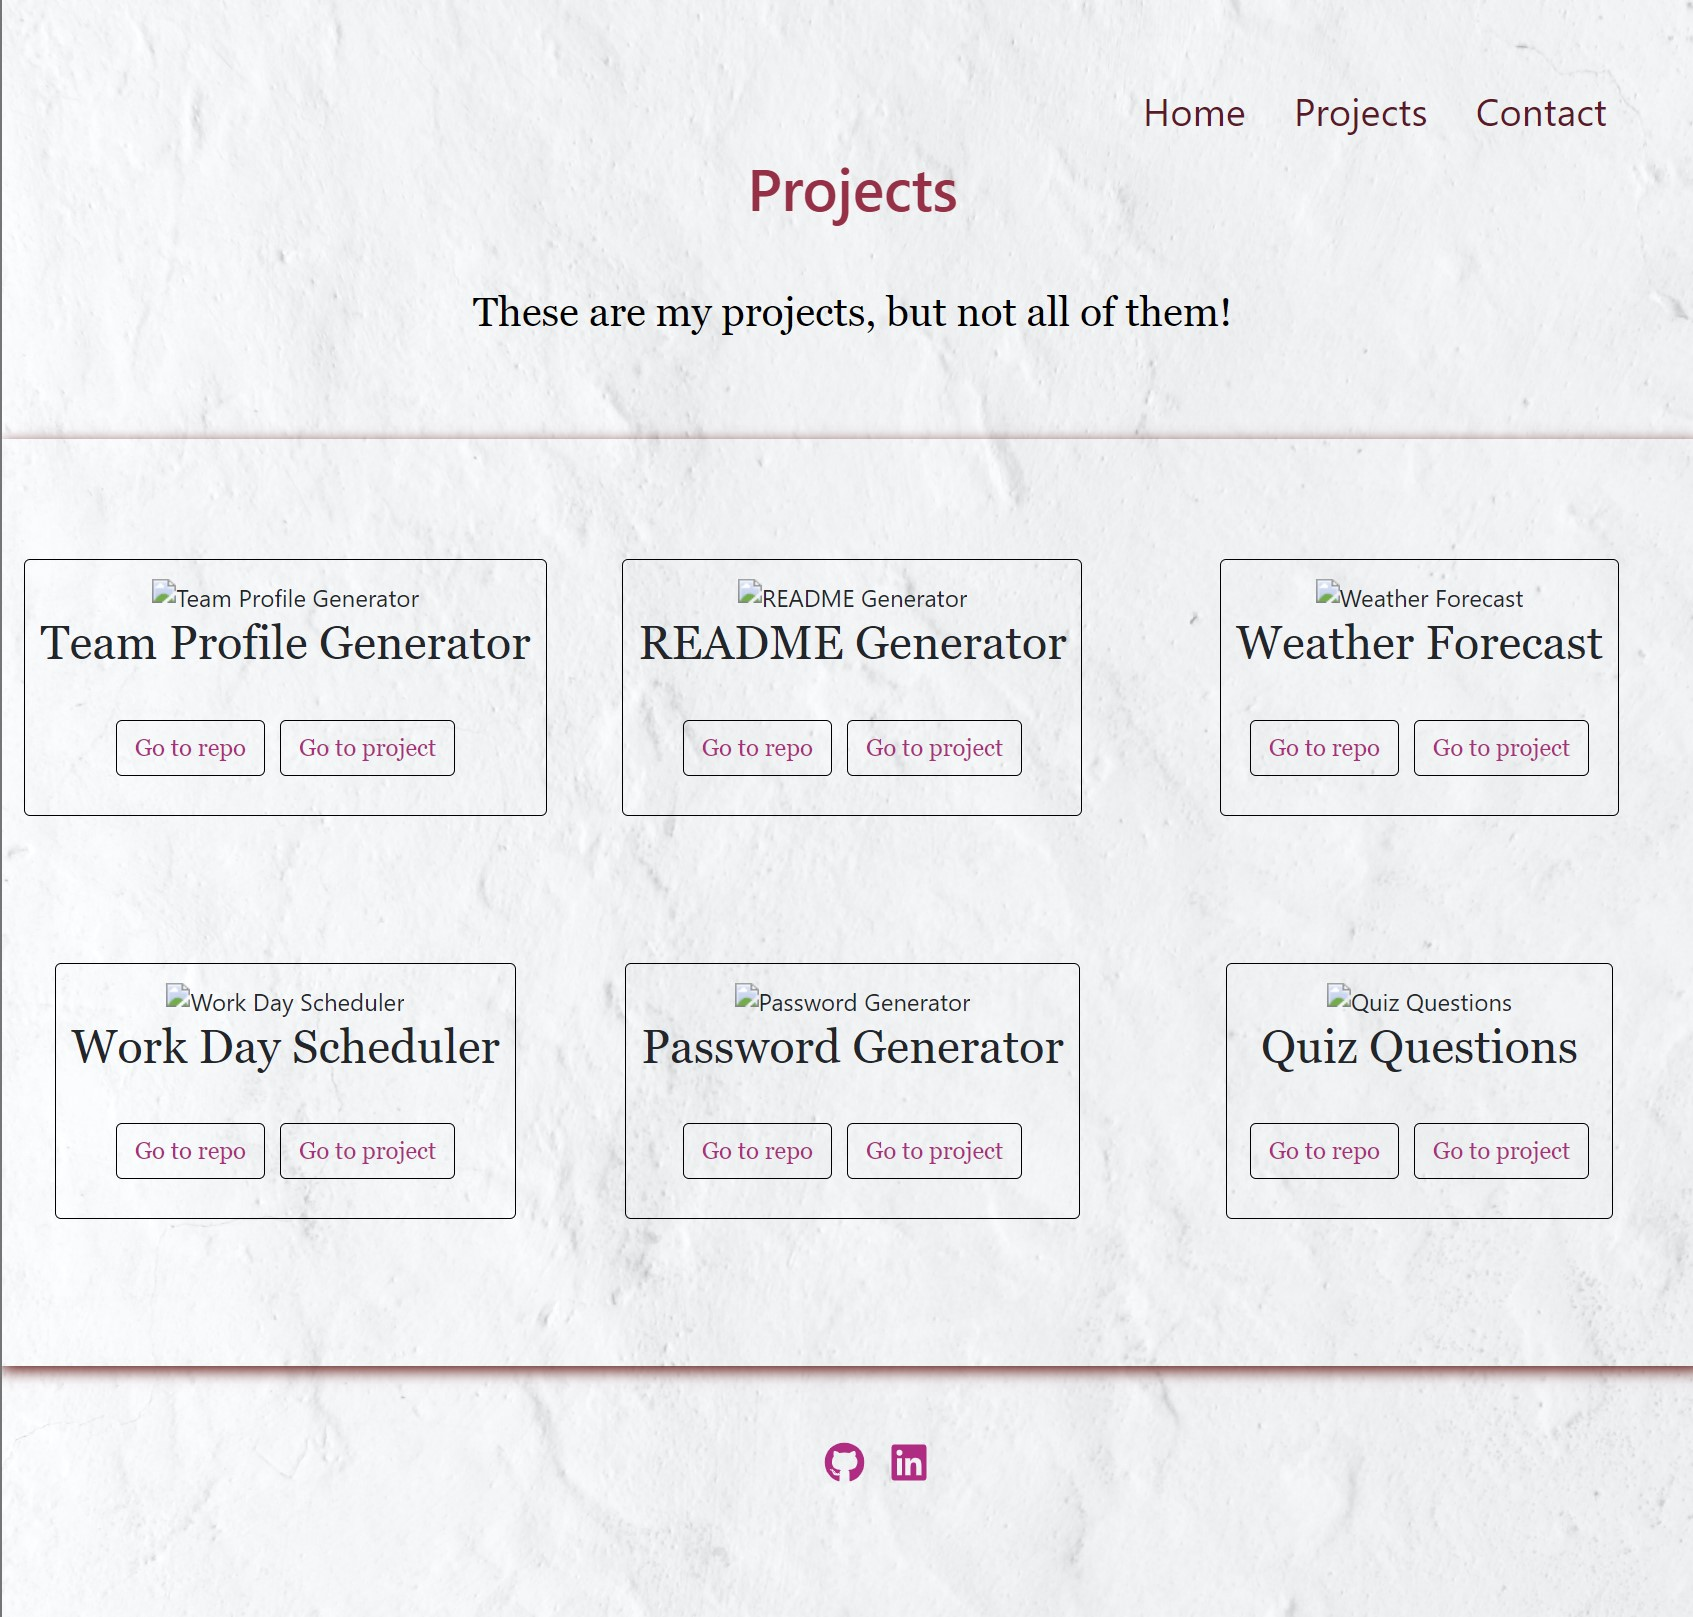
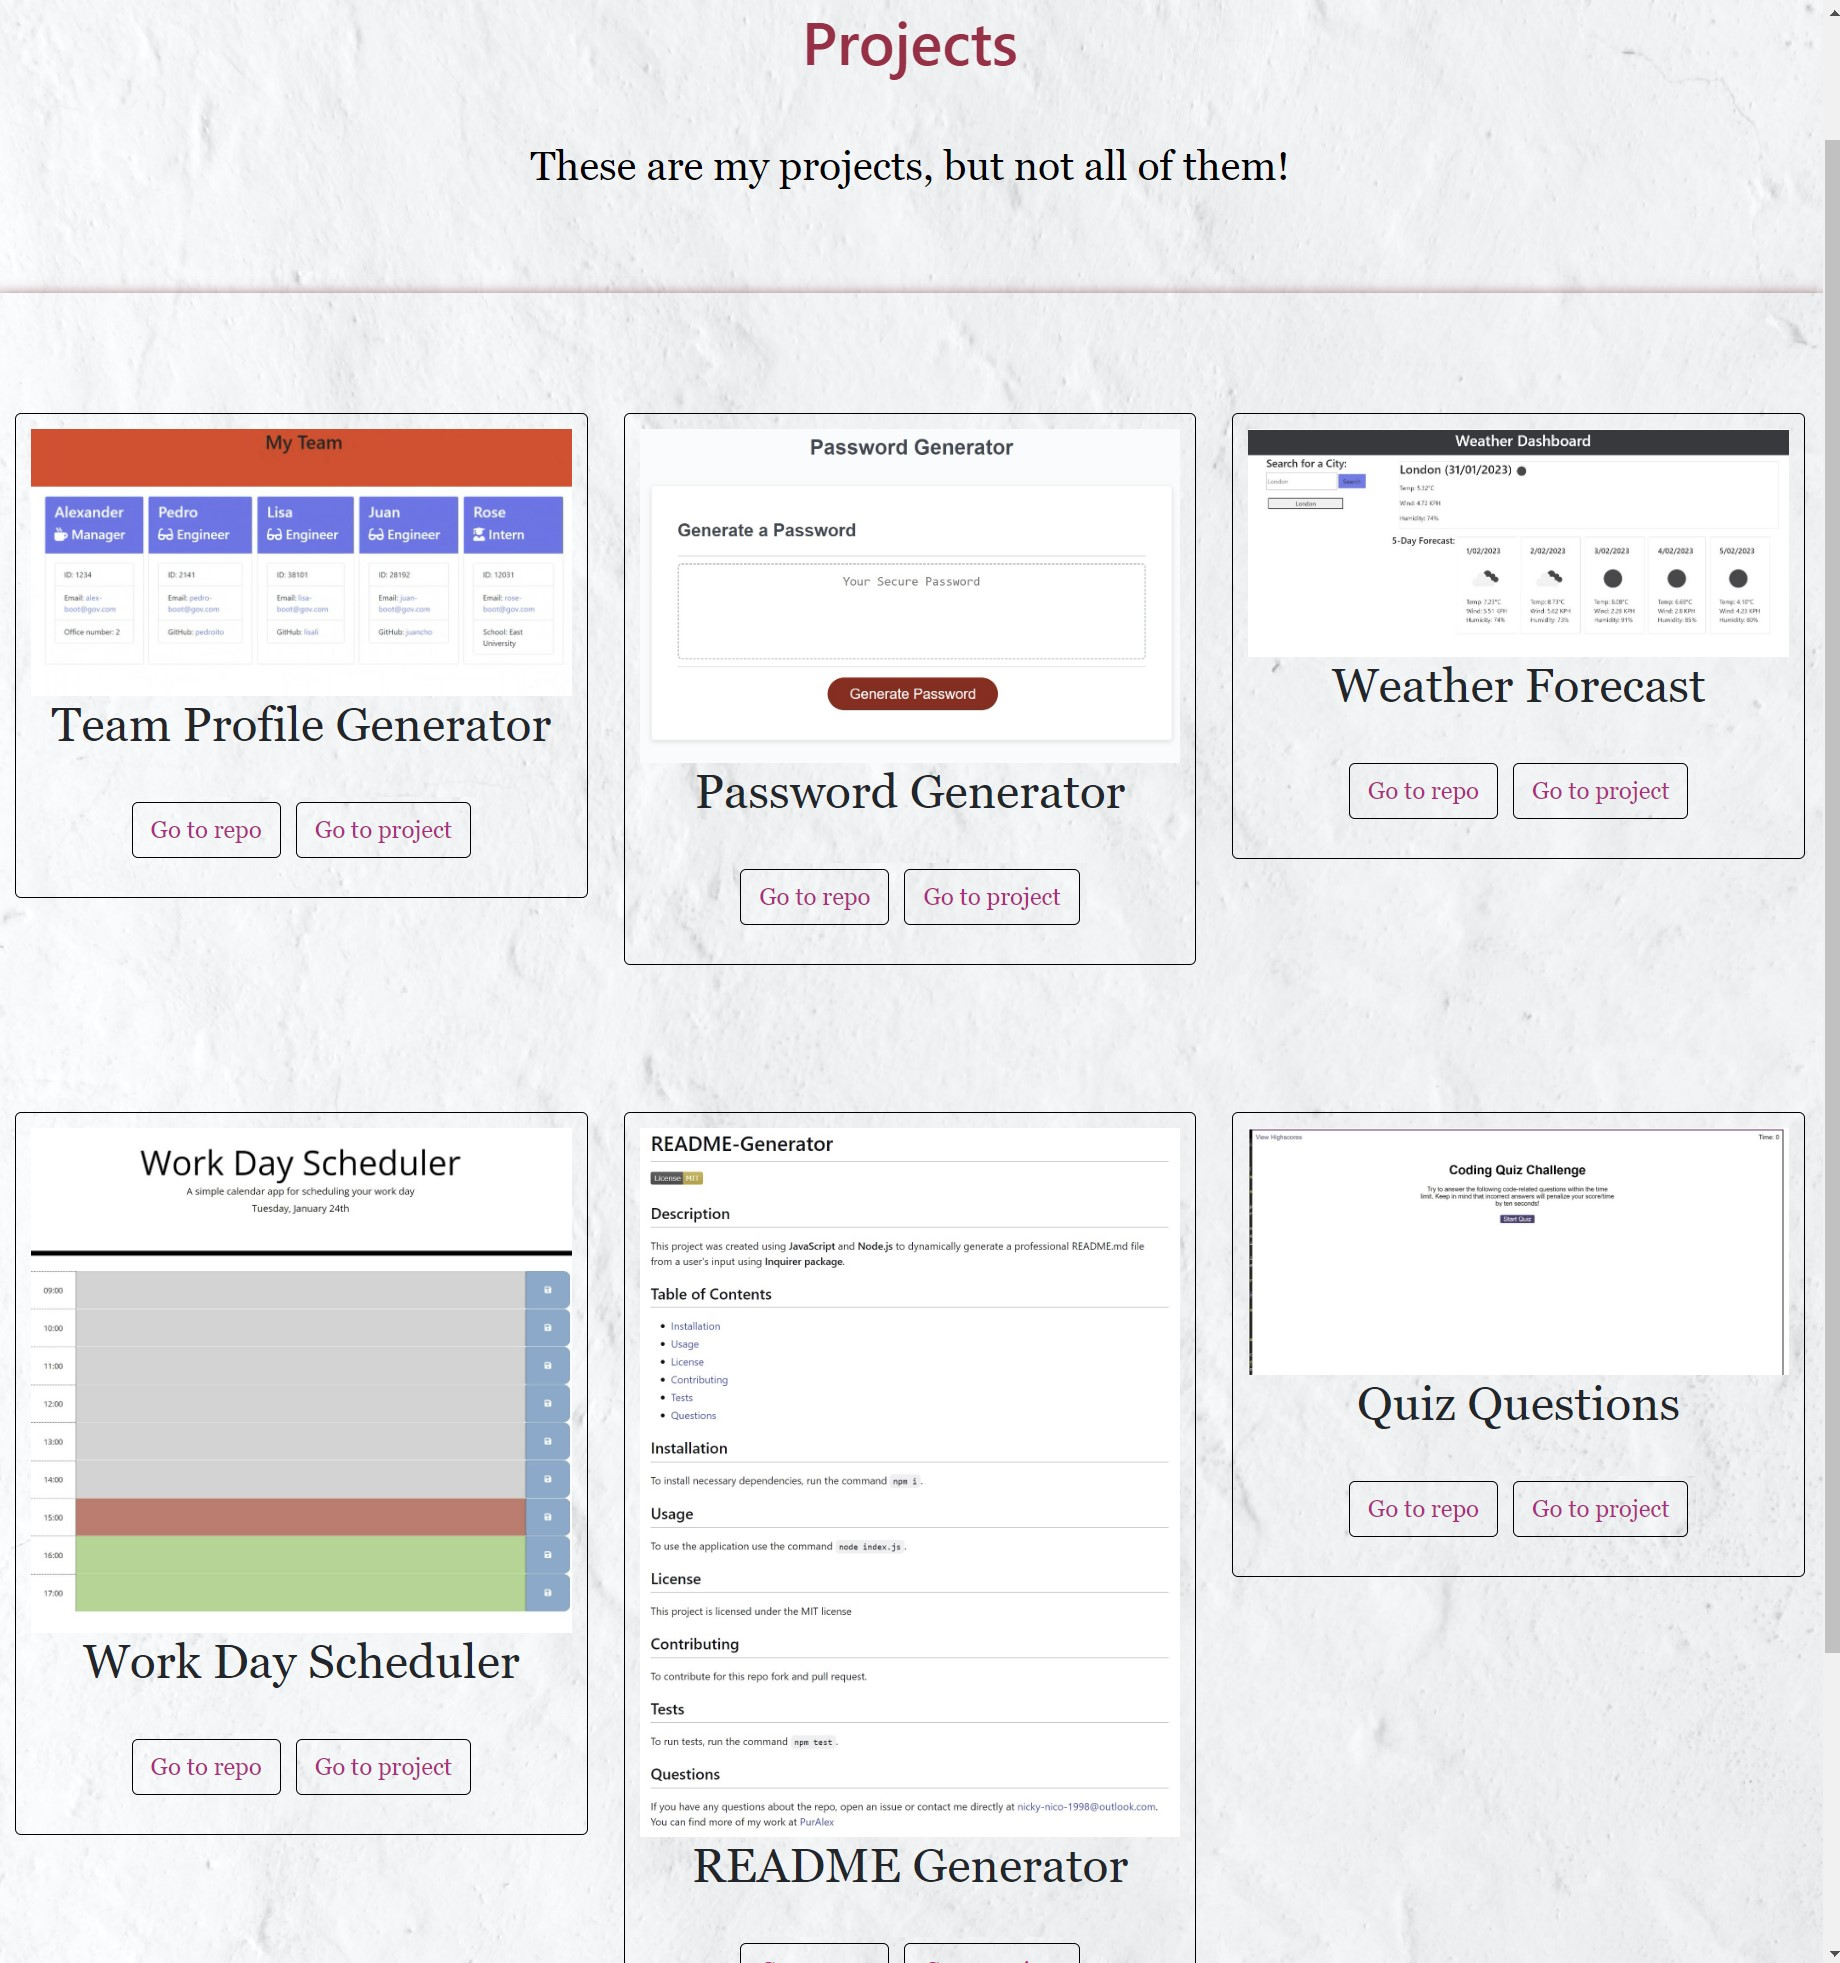
readme updated

diff --git a/README.md b/README.md
@@ -6,8 +6,6 @@
 
 I build my portfolio using **React**. The portfolio use dynamic rendering navigation `React Router` and I used a JSON file to render six projects of the Project component.
 
-I wasn't able to show any image on the projects page.
-
 ![Screenshot](./src/assets/images/Screenshot_1.jpg)
 ![Screenshot](./src/assets/images/Screenshot_2.jpg)
 ![Screenshot](./src/assets/images/Screenshot_3.jpg)
